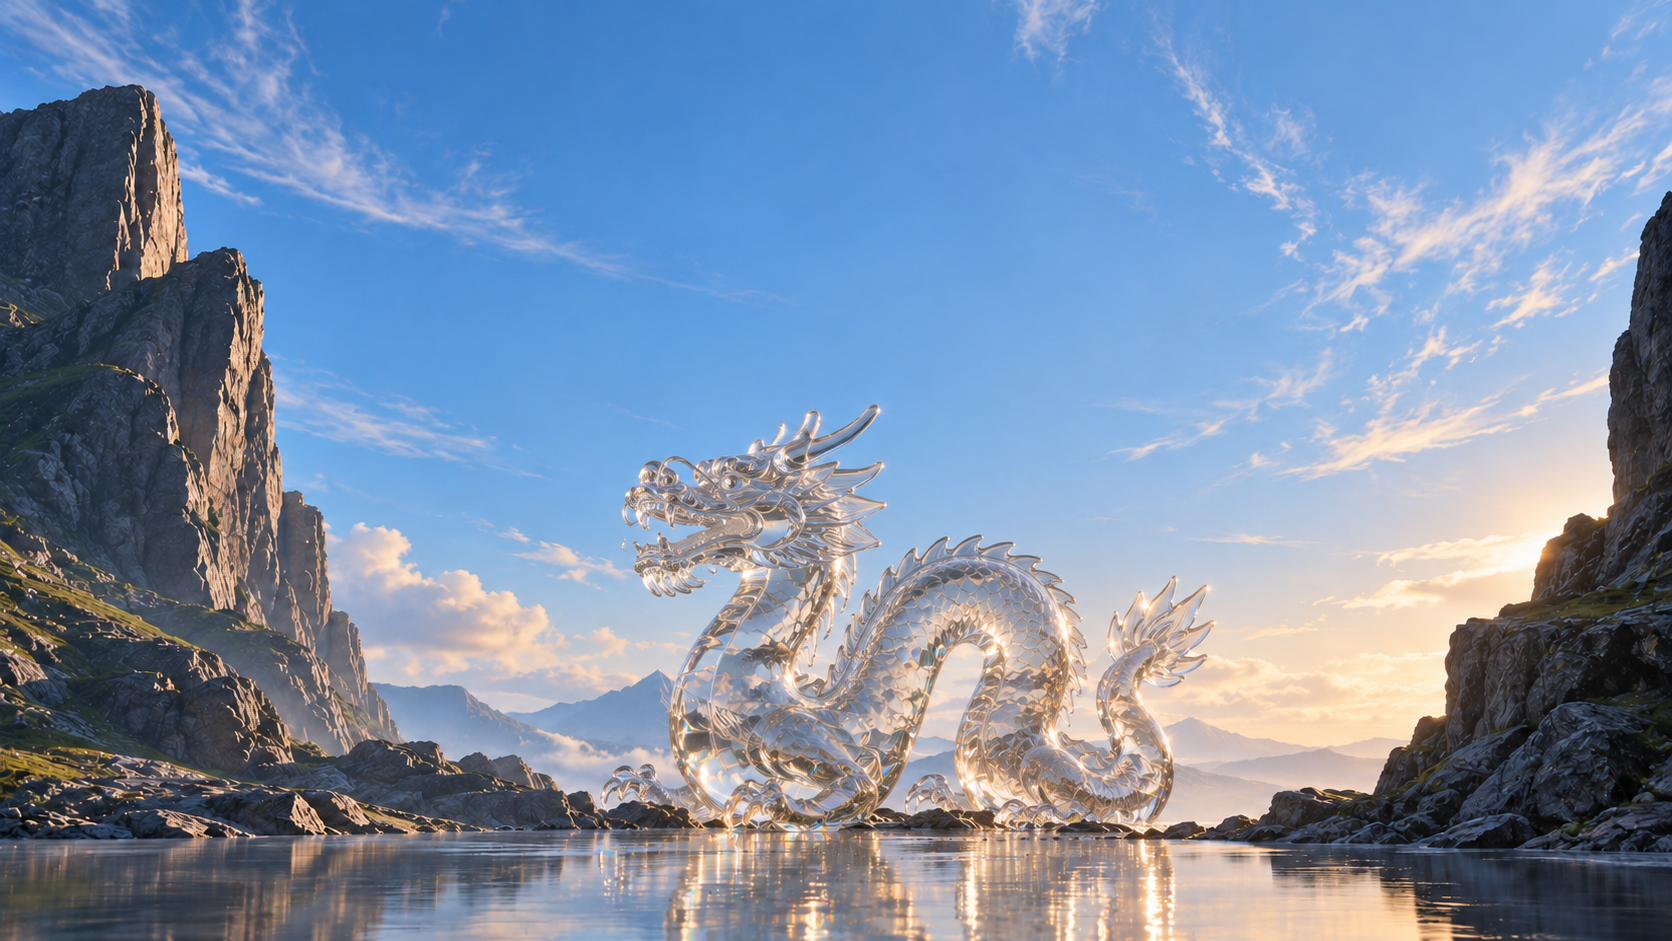
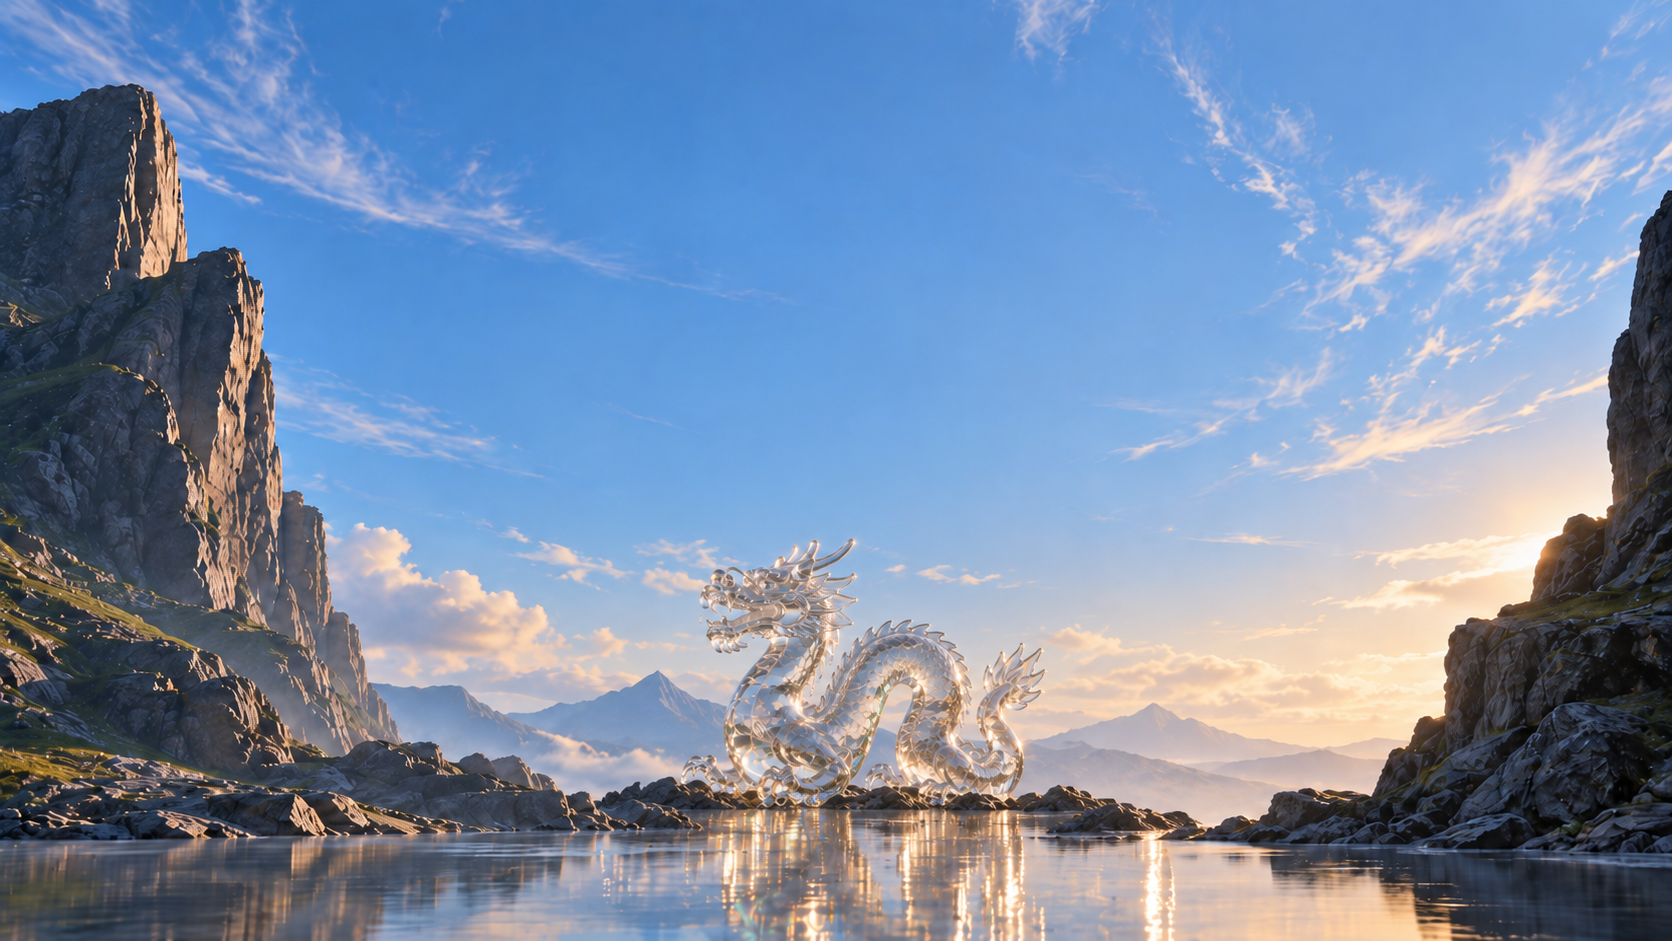
Finished the hero page

diff --git a/src/app/page.tsx b/src/app/page.tsx
@@ -1,4 +1,8 @@
 import Navbar from "@/components/layout/Navbar";
+import InformationCard from "@/components/ui/InformationCard";
+import PrimaryButton from "@/components/ui/PrimaryButton";
+import { AppleLight } from "@ridemountainpig/svgl-react";
+import { Apple } from "lucide-react";
 import Image from "next/image";
 
 export default function Home() {
@@ -13,15 +17,26 @@ export default function Home() {
                     priority
                     className="object-cover"
                 />
-            </section>
-            <section className="relative h-screen w-full">
-                <Image
-                    src="/images/landingDay.png"
-                    alt="Landing Day"
-                    fill
-                    priority
-                    className="object-cover"
-                />
+                <div className="relative z-10 flex h-full items-center justify-center mb-40">
+                    <div className="text-center text-white mb-80 w-1/2 flex flex-col gap-4 items-center">
+                        <h1 className="text-7xl">
+                            Build everything. Then go beyond.{" "}
+                        </h1>
+                        <p className="mt-4 text-xl">
+                            Atlas Engine is a powerful, flexible, open-source
+                            game engine that empowers developers to create
+                            immersive experiences.
+                        </p>
+                        <InformationCard
+                            contents="Atlas Beta 1 Vela is here."
+                            status="info"
+                        ></InformationCard>
+                        <PrimaryButton className="mt-4">
+                            Download for macOS
+                            <AppleLight className="w-3 mb-0.5"></AppleLight>
+                        </PrimaryButton>
+                    </div>
+                </div>
             </section>
         </main>
     );

diff --git a/src/components/ui/InformationCard.tsx b/src/components/ui/InformationCard.tsx
@@ -1,0 +1,34 @@
+import { Circle } from "lucide-react";
+
+type InformationCardProps = {
+    contents: string;
+    status: "success" | "error" | "warning" | "info";
+    className?: string;
+};
+
+export default function InformationCard({
+    contents,
+    status,
+    className = "",
+}: InformationCardProps) {
+    const statusColor = {
+        success: "text-green-400",
+        error: "text-red-400",
+        warning: "text-yellow-400",
+        info: "text-blue-400",
+    }[status];
+
+    return (
+        <div
+            className={`flex flex-row items-center gap-2 rounded-3xl bg-gray-600/50 px-3 py-1 font-mono text-xs text-white backdrop-blur-lg ${className}`}
+        >
+            <Circle
+                className={`h-3 w-3 ${statusColor}`}
+                fill="currentColor"
+                strokeWidth={0}
+            />
+
+            {contents}
+        </div>
+    );
+}
